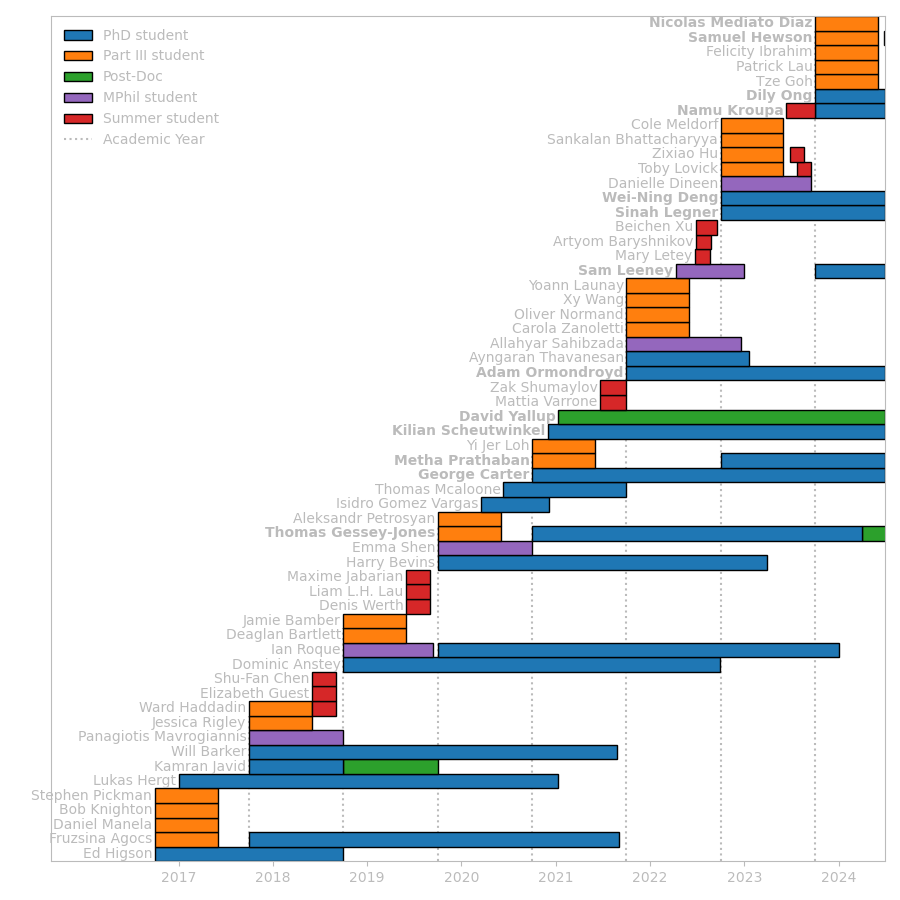
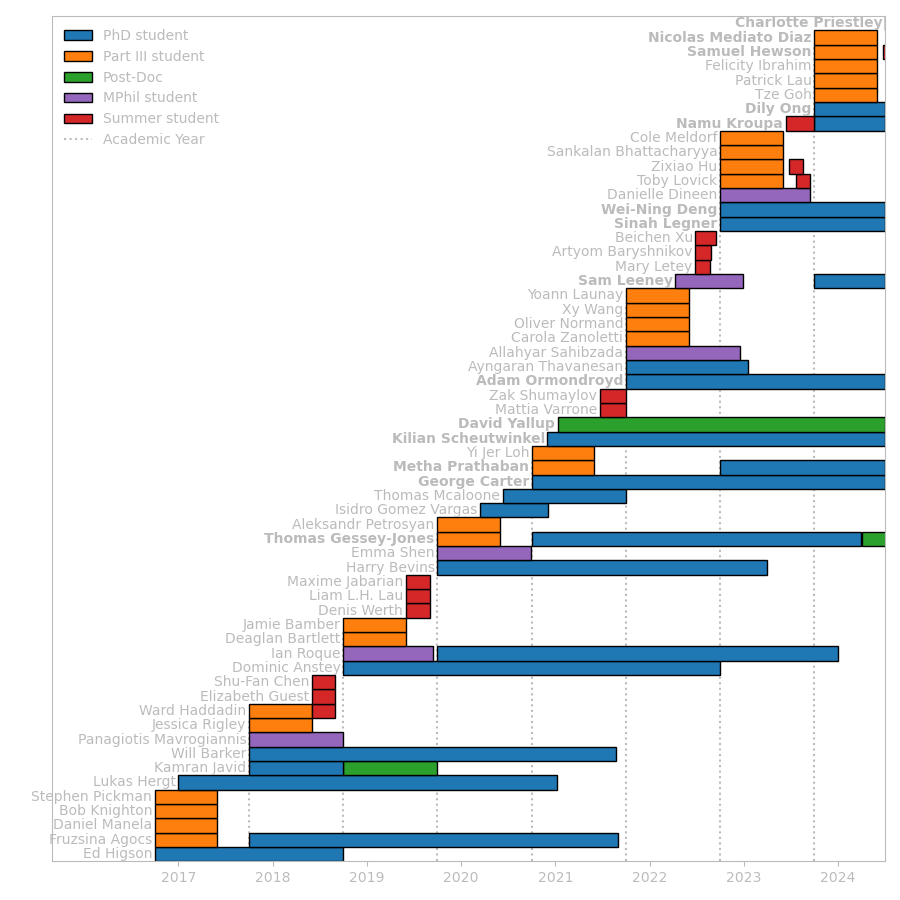
Updated students

diff --git a/assets/students/students.html b/assets/students/students.html
@@ -944,7 +944,7 @@
   <h1>Past Summer students</h1>
   <div class="grid">
     <div class="grid-item">
-      <img src="/assets/images/user.png" />
+      <img src="/assets/students/images/charlotte_priestley.jpg" />
     </div>
     <div class="grid-item">
       <p>
